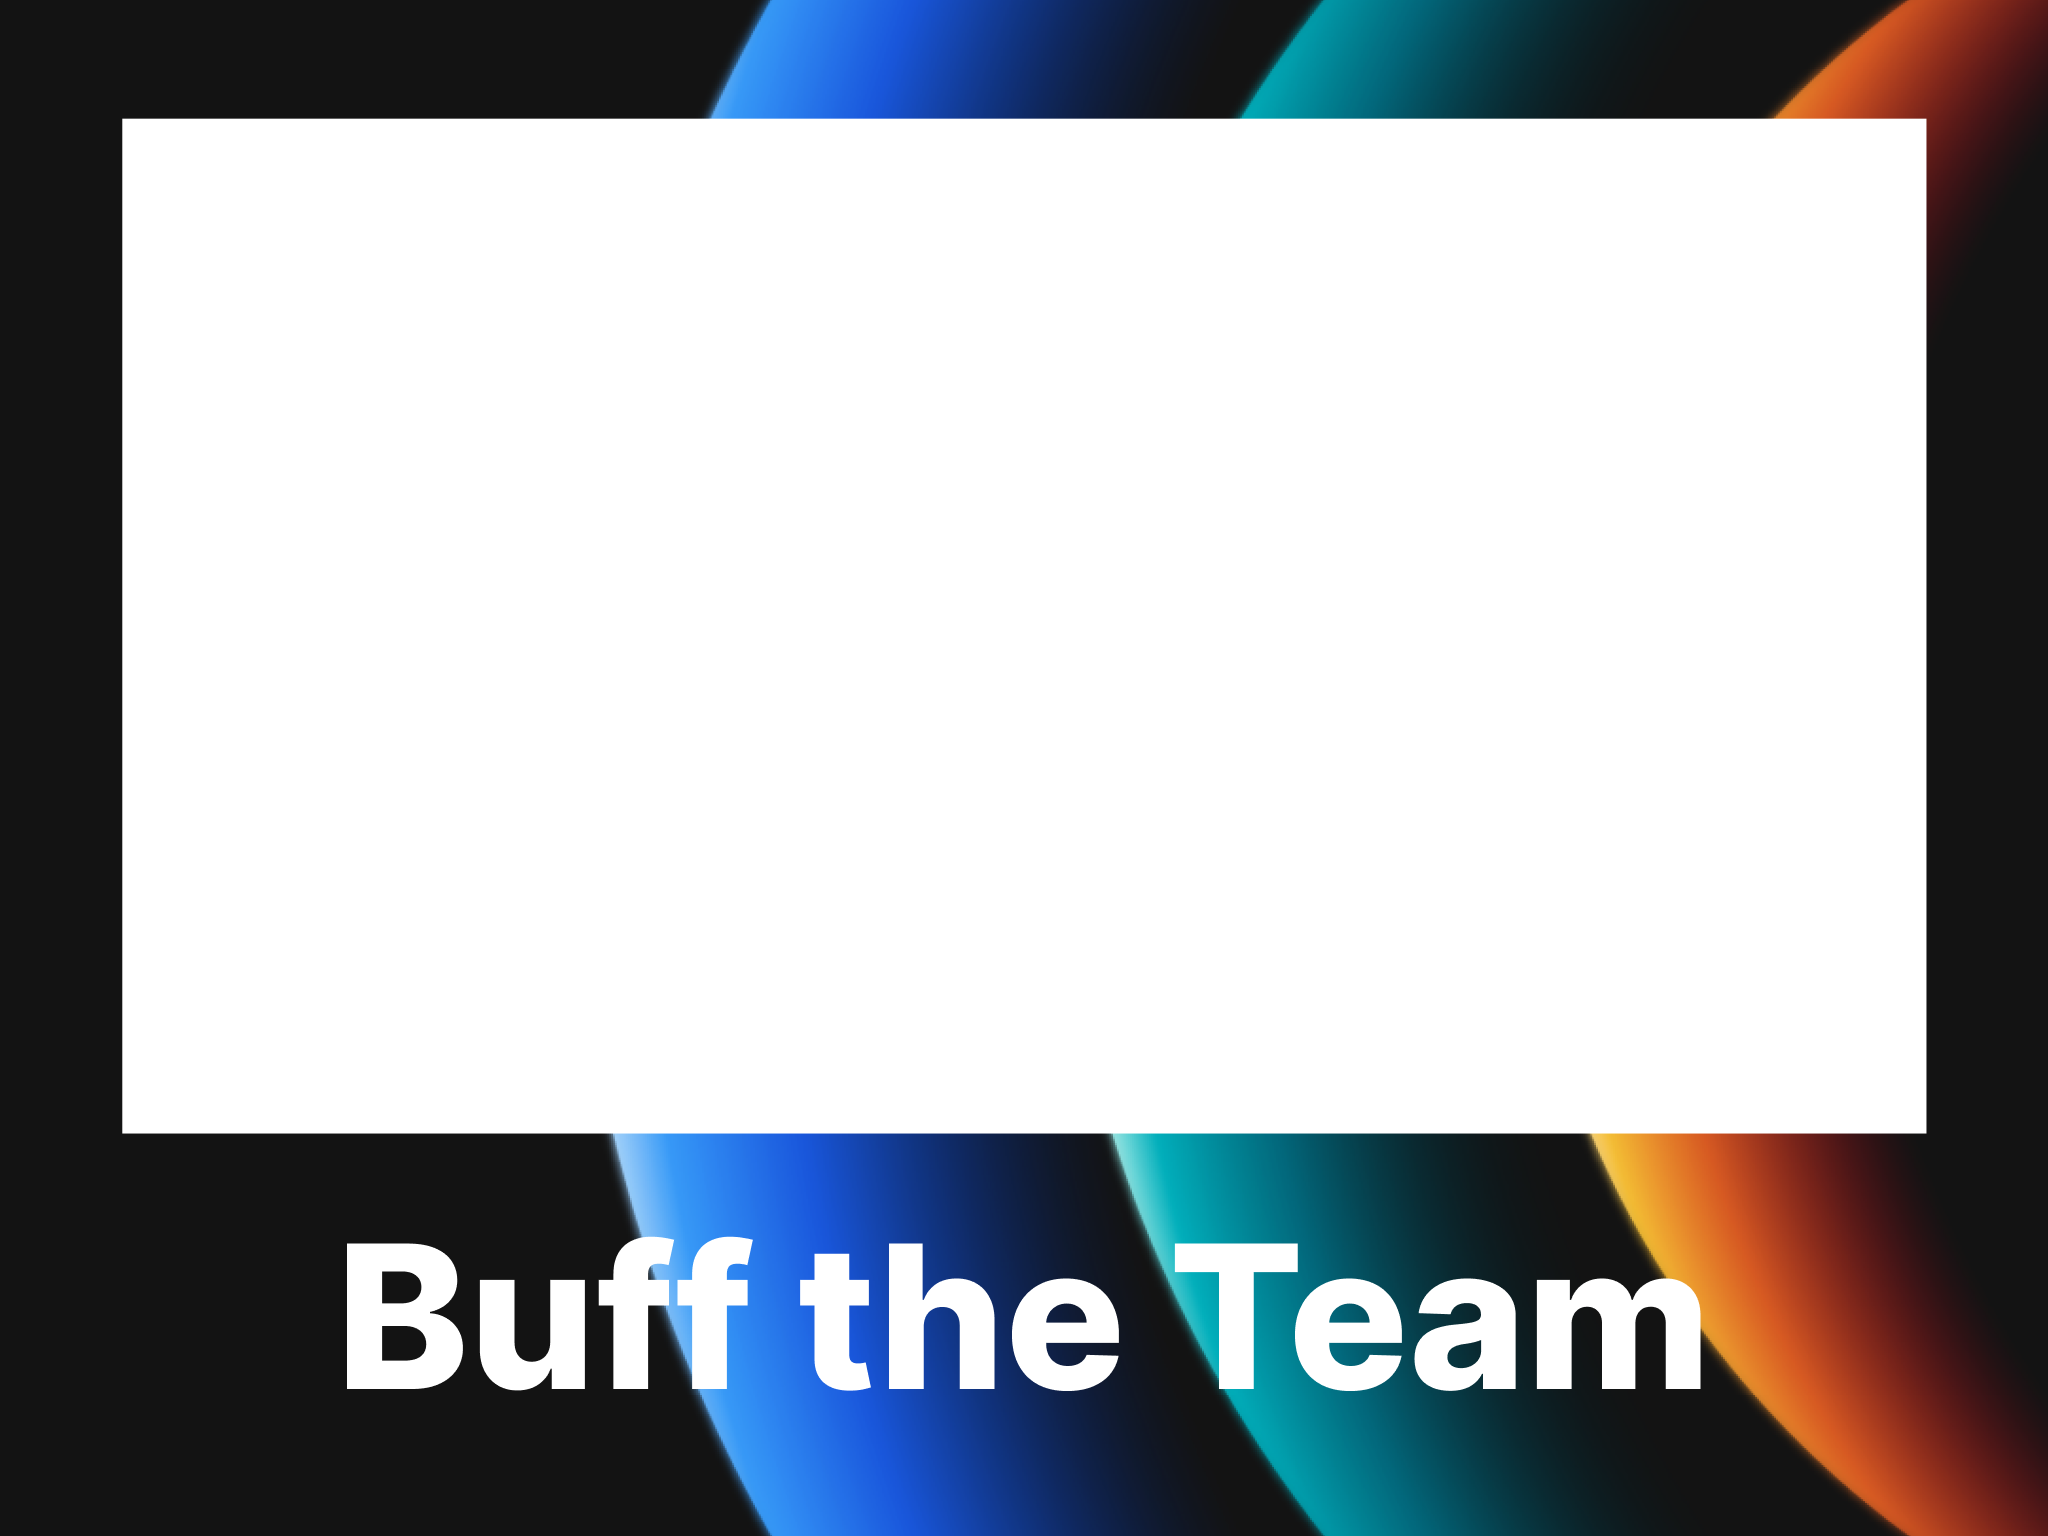
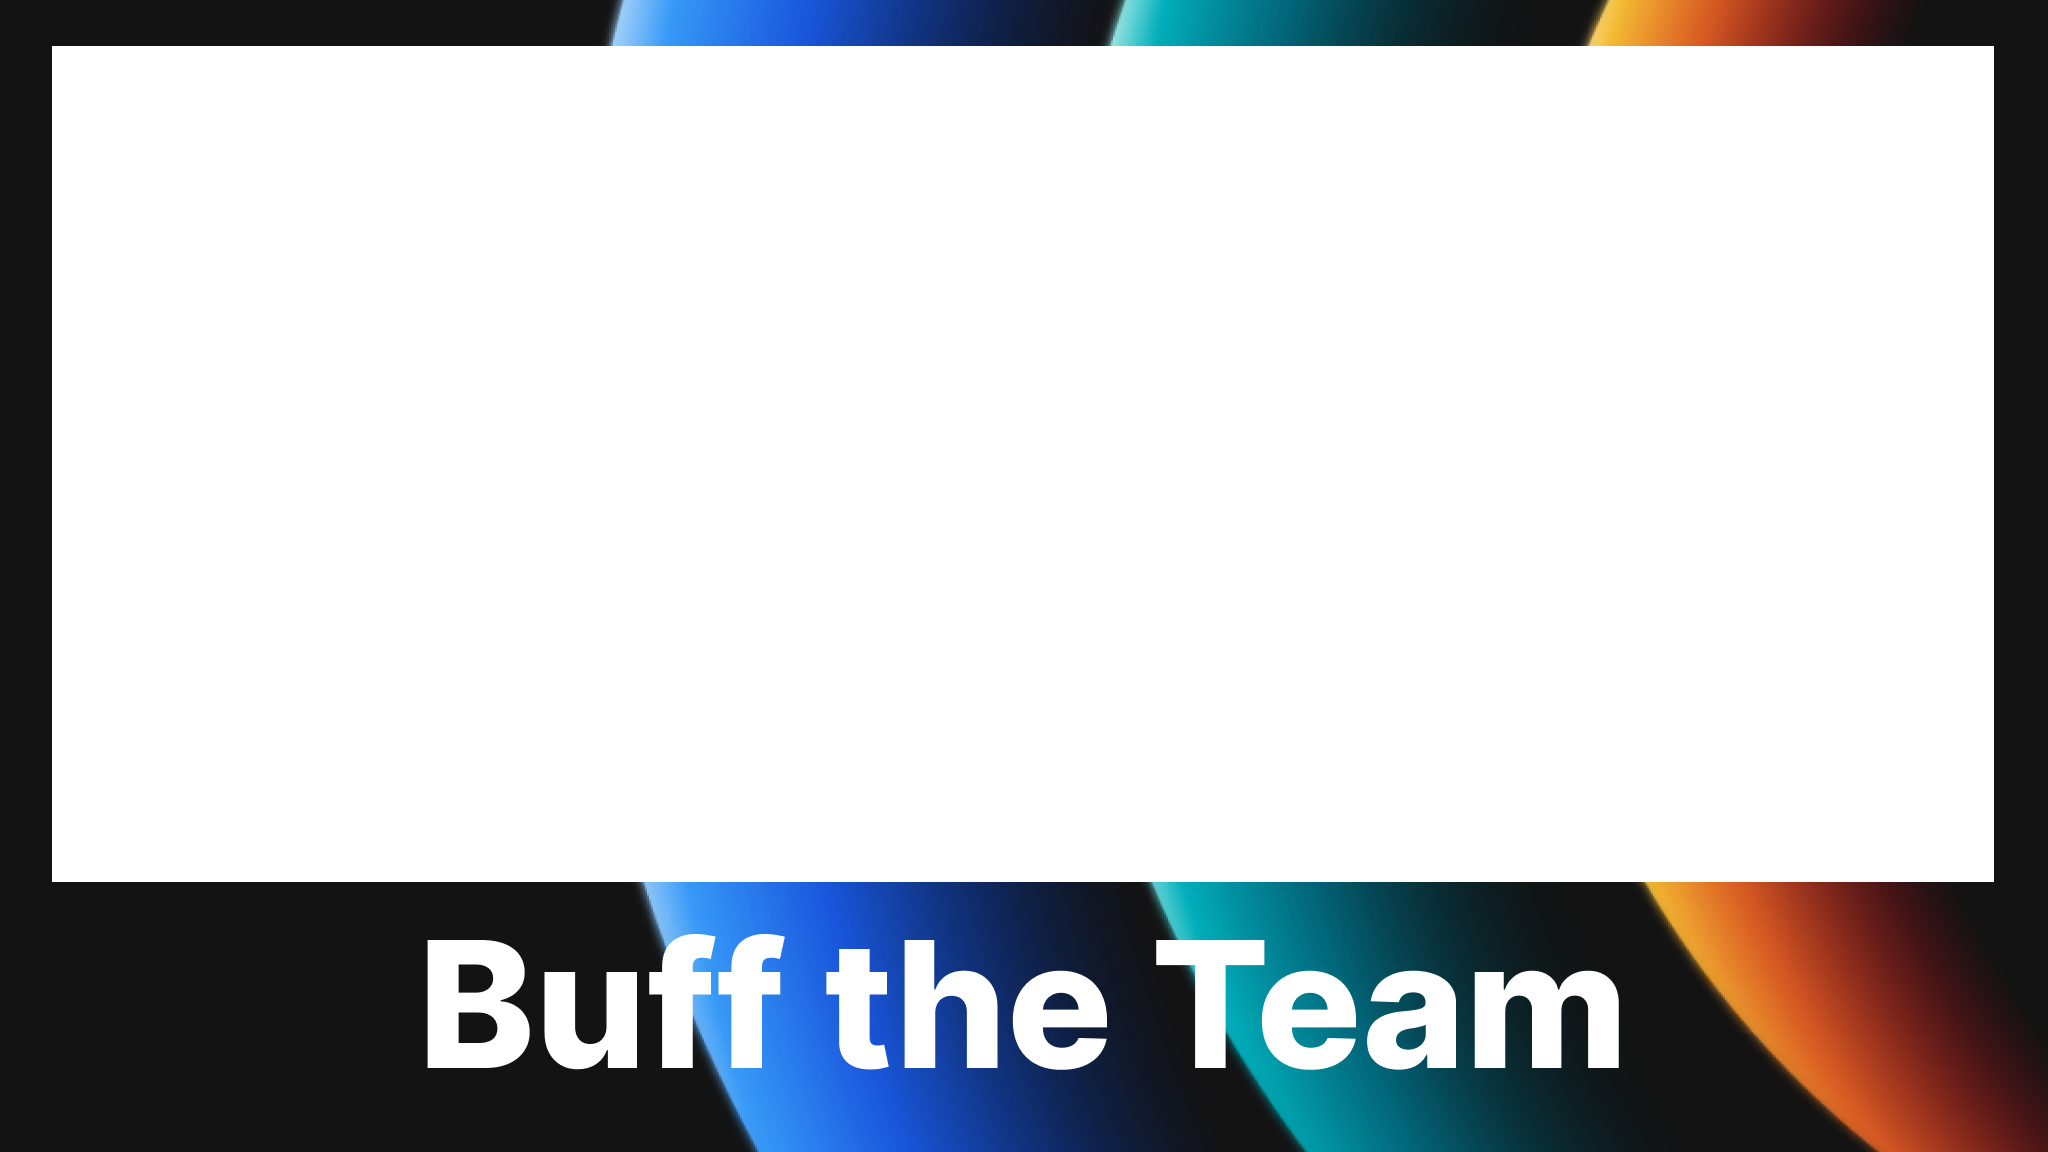
トリミング比率を4:3から16:9に変更、フレーム画像を更新

Changed region(s): [[0.0, 0.0, 1.0, 1.0], [0.875, 0.9375, 0.9375, 1.0], [0.625, 0.9688, 0.6562, 1.0]]

diff --git a/tool-03-photo/index.html b/tool-03-photo/index.html
@@ -26,12 +26,12 @@
         }
     </script>
     <style>
-        /* キャンバスエリア - 4:3 */
+        /* キャンバスエリア - 16:9 */
         #canvas-container {
             width: 100%;
             max-width: 800px;
             margin: 0 auto;
-            aspect-ratio: 4 / 3;
+            aspect-ratio: 16 / 9;
             position: relative;
             overflow: hidden;
             border: 2px solid #818cf8;
@@ -101,7 +101,7 @@
         <div class="bg-white rounded-xl shadow-2xl w-full max-w-2xl p-6 animate-fade-in flex flex-col max-h-[90vh]">
             <h2 class="text-xl font-bold text-gray-800 mb-4 flex items-center gap-2">
                 <svg class="w-6 h-6 text-indigo-500" fill="none" stroke="currentColor" viewBox="0 0 24 24"><path stroke-linecap="round" stroke-linejoin="round" stroke-width="2" d="M15.172 7l-6.586 6.586a2 2 0 102.828 2.828l6.414-6.586a4 4 0 00-5.656-5.656l-6.415 6.585a6 6 0 108.486 8.486L20.5 13"></path></svg>
-                位置とサイズを調整 (4:3)
+                位置とサイズを調整 (16:9)
             </h2>
             
             <div class="flex-1 min-h-0 flex items-center justify-center bg-gray-100 rounded-lg overflow-hidden relative mb-4">
@@ -135,8 +135,8 @@
 
         <!-- メインキャンバスエリア -->
         <div id="canvas-container" class="mb-6 bg-white shadow-xl">
-            <!-- 800x600 (4:3) -->
-            <canvas id="photoCanvas" width="800" height="600"></canvas>
+            <!-- 800x450 (16:9) -->
+            <canvas id="photoCanvas" width="800" height="450"></canvas>
             
             <div id="placeholder" class="absolute inset-0 flex flex-col items-center justify-center text-gray-400 p-6 pointer-events-none">
                 <div class="w-20 h-20 bg-indigo-100 rounded-full flex items-center justify-center mb-4">
@@ -277,7 +277,7 @@
         let dragStart = { x: 0, y: 0 };
         
         const BASE_WIDTH = 800; 
-        const BASE_HEIGHT = 600; // 4:3
+        const BASE_HEIGHT = 450; // 16:9
         canvas.width = BASE_WIDTH;
         canvas.height = BASE_HEIGHT;
         let currentColor = '#f472b6';
@@ -343,8 +343,8 @@
         
         let trimSourceImage = null;
         let trimState = { scale: 1, x: 0, y: 0, isDragging: false, lastX: 0, lastY: 0 };
-        const TRIM_CANVAS_W = 600; 
-        const TRIM_CANVAS_H = 450; 
+        const TRIM_CANVAS_W = 800; 
+        const TRIM_CANVAS_H = 450; // 16:9 
 
         photoInput.addEventListener('change', (e) => {
             const file = e.target.files[0];
@@ -437,8 +437,8 @@
                 trimSourceImage.height * trimState.scale
             );
 
-            // ガイド枠（4:3の枠線）
-            // ここではキャンバス全体が4:3なので枠線を表示
+            // ガイド枠（16:9の枠線）
+            // ここではキャンバス全体が16:9なので枠線を表示
             trimCtx.strokeStyle = '#6366f1';
             trimCtx.lineWidth = 2;
             trimCtx.strokeRect(0, 0, TRIM_CANVAS_W, TRIM_CANVAS_H);
